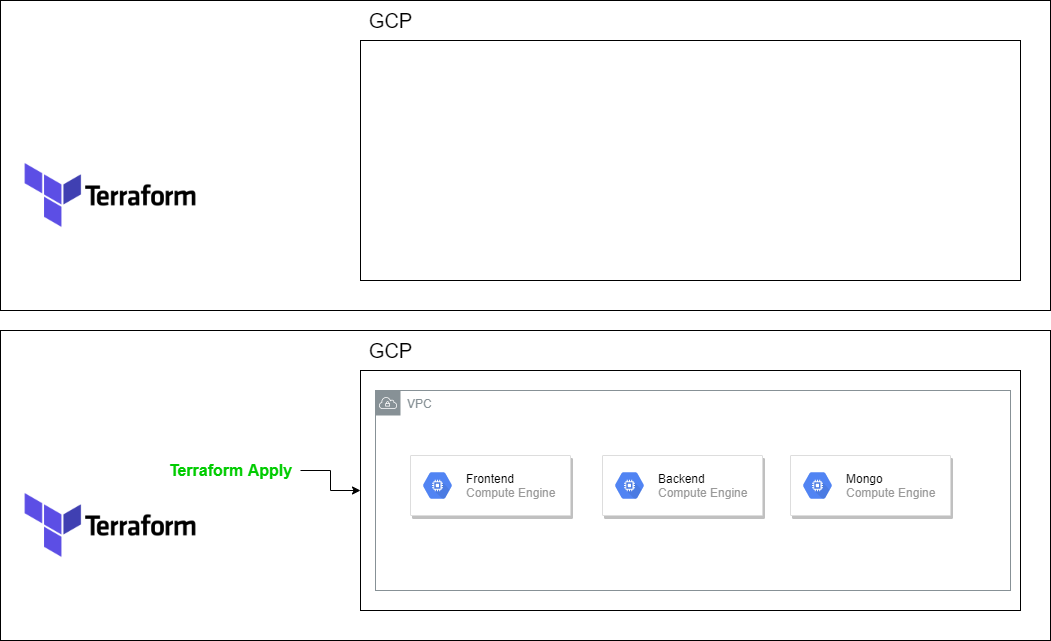
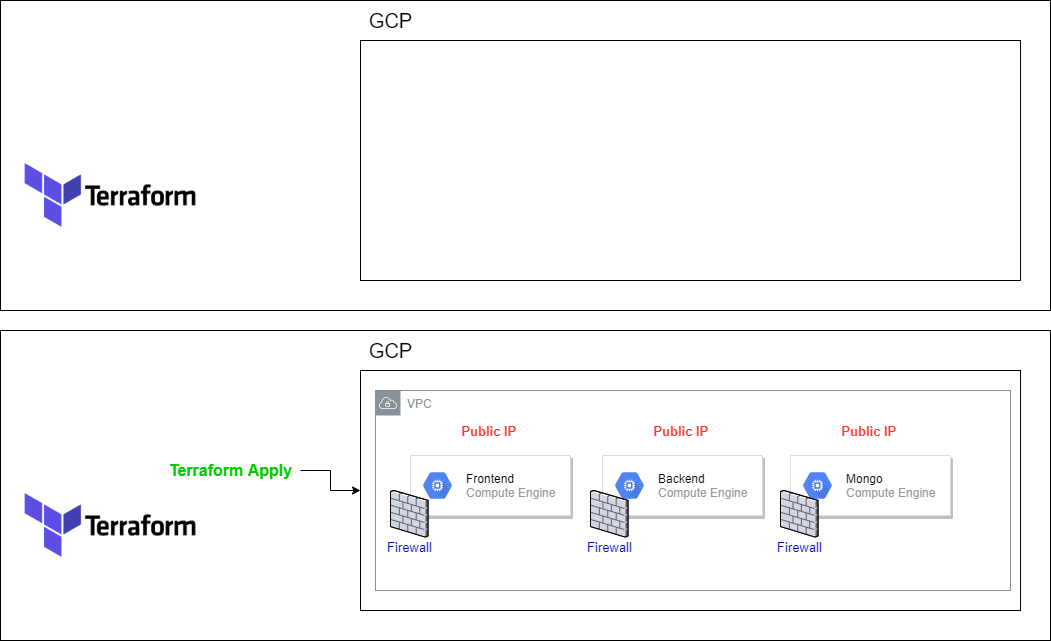
updated readme and added scripts to install terraform, ansible, gcp-invetory

diff --git a/README.md b/README.md
@@ -1,75 +1,85 @@
 
 # Terraform-dishout
-Terraform infrastructure as code for the Dishout webapp
+Terraform-dishout provides the configuration required to create the dishout infrastructure in GCP. 
+
+### Installation
+
+Installing Terraform 0.13.2
+```
+sh setup/install_terraform.sh
+```
+
+Installing Ansible
+```
+sh setup/install_ansible.sh
+```
+Installing GCP inventory plugin (required for ansible dynamic invenotry)
+```
+sh setup/install_gcp_inventory.sh
+```
+
+### usage
+```
+terraform apply
+cd provisioner && ansible-playbook playbook.yml
+```
+
+### how it works
+Upon running *__terraform apply__*  Terraform crates infrastructure within the *___dishout-285810___* GCP project. 
+Resources provisioned :  
+1. VPC
+2. virtual machines 
+3. firewalls 
+4. static IPs
 
 <!-- Images -->
 ![Markdown Logo](files/Diagram.png)
 
-### Installation
-1) Install terraform 0.13.2
+While provisioning the virtual machines terraform sets the following env variables:
+1. DUCKDNS_SUBDOMAIN (*DuckDNS subdomain used to acess the application*)
+2. DUCKDNS_TOKEN (*token used to make a request to the duckdns API*)
+3. DOCKER_IMAGE (*Image that will be used to run the docker container*)
+4. DOCKER_PORT  (*Port docker container will run on*)
+5. CONTAINER_NAME (*Name of docker container*)i
 
-2) Create Dishout Project 
-
-3) Service Account(grant "Project editor Role" and generate JSON key)
- 
-4) Ebable APis
-	- Cloud storage
-	- Cloud compute
-	- Cloud Resource manager
-
-
-#### Installing Terraform 
-```
-export VER="0.13.2"
-sudo apt install -y curl
-sudo apt-get install -y unzip
-curl https://releases.hashicorp.com/terraform/${VER}/terraform_${VER}_linux_amd64.zip --output terraform_${VER}_linux_amd64.zip
-unzip terraform_${VER}_linux_amd64.zip
-mv terraform /usr/local/bin/
-rm -rf terraform_${VER}_linux_amd64.zip
-terraform -version
-```
-
-#### Installing Ansible
-```
-sudo apt-get update -y
-echo "Installing ansible"
-sudo apt-get install -y software-properties-common
-sudo apt-add-repository -y ppa:ansible/ansible
-sudo apt-get update -y
-sudo apt-get install -y ansible
-sudo apt install --no-install-recommends python-netaddr
-ansible-galaxy collection install community.general
-ansible --version
-```
-
-#### Installing GCP inventory plugin (required for ansible dynamic invenotry)
-```
-sudo apt install -y python-pip
-pip install requests
-pip install google-auth
-```
-
-
-
-#### Extras
-
-###### tfvars
-The terraform.tfvars is required in order to for secretes.
+#####tfvars
+The terraform.tfvars is required in order for secretes.
 example .tfvars: 
 ```
 duckdns_token = "*******"
 ```
 
-###### SSH keys
-ssh-keys are required, simply execure these commands to create a pair (this might be removed)
+Upon running *__cd provisioner && ansible-playbook playbook.yml__*  Ansible provisions the virtual machines by doing the following:
+1. setting up DUCKDNS cron script  (*script that notifies duckdns of the public IP of the machine*)
+2. Installing docker (*Ansible module geerlingguy.docker is used for this*)
+3. running the appropiate docker container (*Does this by using the env variables set by terraform during VM creation*)
+
+
+
+<!-- Images -->
+![Markdown Logo](files/AnsibleDiagram.png)
+
+
+#### Extras
+##### How is ansible able to provision against newly created machines? how does it get their IP and other data?
+
+This is thanks to ansible *___dynamic invenotry___*, this allows ansible to query resources within the  *___dishout-285810___* GCP project by using the *___service account credentials___*. 
+We are able to specify the sets of machines ansible will run a play against by grouping the hosts within our project by label, zone, tag, name, etc (refer to provisioner/inventory.compute.gcp.yml). 
+In our case Ansible runs the DuckDNS play on machines with lbael `dns_strategy: duckdns`
+*other resources
+- [How to Use Ansible Gcp compute inventory](http://matthieure.me/2018/12/31/ansible_inventory_plugin.htmll)
+- [How To Setup Ansible Dynamic Inventory For Google Cloud](https://devopscube.com/ansible-dymanic-inventry-google-cloud/l)
+
+
+The following command allows to query GCP about running instances:
+`watch -n 1 ansible-inventory -i inventory.compute.gcp.yml --graph`
+
+
+
+##### SSH keys
+These will allow you to ssh to the instances loaclly and will be used by ansible to authenticate against the virtual machine in order to run commands.
+ssh-keys are required, simply execure these commands to create a pair (this might be removed in the future)
 ```
 ssh-keygen -f credential/dishout-ssh-keys -t rsa -b 4096
 sudo chmod 600 credential/dishout-ssh-keys
-```
-
-###### Ansible
-the following command allows to query GCP about running instances. 
-```
-watch -n 1 ansible-inventory -i inventory.compute.gcp.yml --graph
 ```
